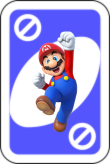
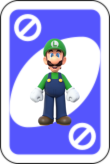
Uplodad full images

Changed region(s): [[0.2727, 0.1829, 0.7364, 0.8232]]

diff --git a/src/main/java/org/example/eiscuno/controller/GameUnoController.java b/src/main/java/org/example/eiscuno/controller/GameUnoController.java
@@ -82,6 +82,9 @@ public class GameUnoController implements ShiftEventListener {
     @FXML
     private ImageView character;  // ImageView para el character
 
+    @FXML
+    private ImageView instantAnimatedCard;
+
     // Arreglos de rutas de las imágenes para cada uno
     private String[] personajeImages = {
             "/org/example/eiscuno/images/personaje1.png",
@@ -439,6 +442,7 @@ public class GameUnoController implements ShiftEventListener {
         animatedCard.setLayoutX(startX);
         animatedCard.setLayoutY(startY);
 
+
         // Generar una rotación aleatoria entre -20 y 20 grados
         double rotationAngle = (Math.random() * 40) - 20;
 
@@ -468,6 +472,8 @@ public class GameUnoController implements ShiftEventListener {
             finalCard.setRotate(rotationAngle); // Mantener la rotación
             finalCard.setLayoutX(centerX - finalCard.getFitWidth() / 2);
             finalCard.setLayoutY(centerY - finalCard.getFitHeight() / 2);
+
+            instantAnimatedCard=finalCard;
 
             // Eliminar cualquier carta previa en el centro
             centralPane.getChildren().removeIf(node -> node instanceof ImageView && node != tableImageView);
@@ -591,6 +597,8 @@ public class GameUnoController implements ShiftEventListener {
 
         // Restablecer el estado de cambio de color
         gameUno.setHasToChangeColor(false);
+
+        instantAnimatedCard.setImage(table.getCurrentCardOnTheTable().getImage());
 
         // Si es el turno de la máquina, deshabilitar el botón de la baraja
         if (machinePlayer.isOnTurn()) {

diff --git a/src/main/java/org/example/eiscuno/model/card/Card.java b/src/main/java/org/example/eiscuno/model/card/Card.java
@@ -3,6 +3,8 @@ package org.example.eiscuno.model.card;
 import javafx.scene.image.Image;
 import javafx.scene.image.ImageView;
 
+import java.util.Objects;
+
 /**
  * Represents a card in the Uno game.
  */
@@ -75,5 +77,24 @@ public class Card {
 
     public void setColor(String color) {
         this.color = color;
+        if(Objects.equals(color, "GREEN")){
+            this.url = "/org/example/eiscuno/cards-uno/wild_green.png";
+            this.image = new Image(String.valueOf(getClass().getResource(url)));
+            this.cardImageView = createCardImageView();
+
+        }else if(Objects.equals(color, "BLUE")){
+            this.url = "/org/example/eiscuno/cards-uno/wild_blue.png";
+            this.image = new Image(String.valueOf(getClass().getResource(url)));
+            this.cardImageView = createCardImageView();
+
+        }else if(Objects.equals(color, "RED")){
+            this.url = "/org/example/eiscuno/cards-uno/wild_red.png";
+            this.image = new Image(String.valueOf(getClass().getResource(url)));
+            this.cardImageView = createCardImageView();
+        }else{
+            this.url = "/org/example/eiscuno/cards-uno/wild_yellow.png";
+            this.image = new Image(String.valueOf(getClass().getResource(url)));
+            this.cardImageView = createCardImageView();
+        }
     }
 }
